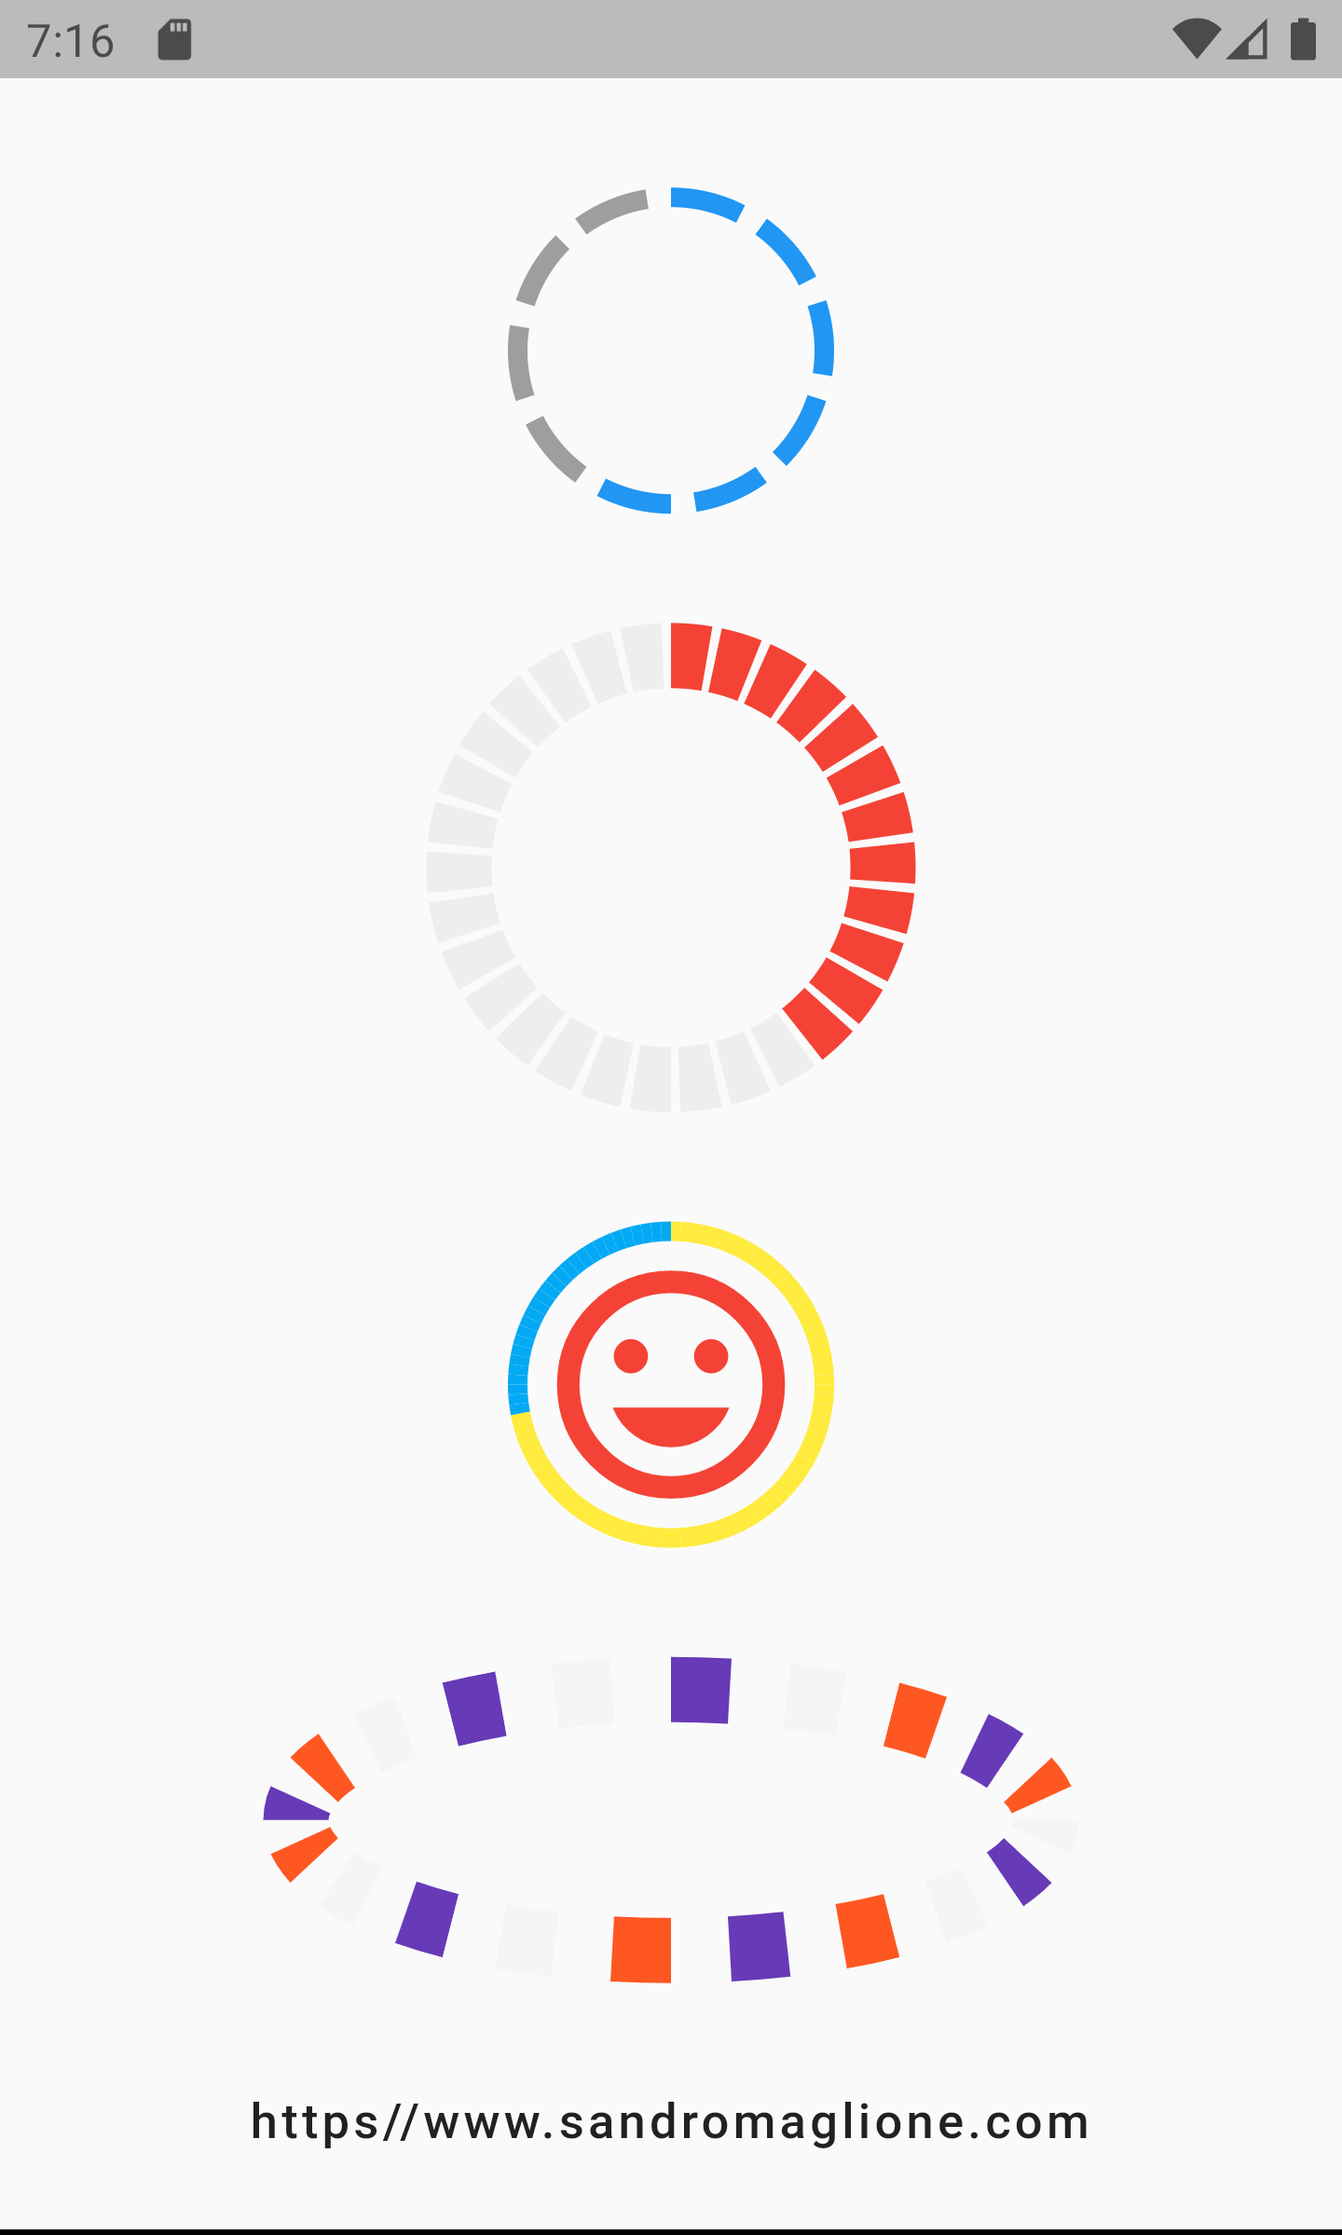
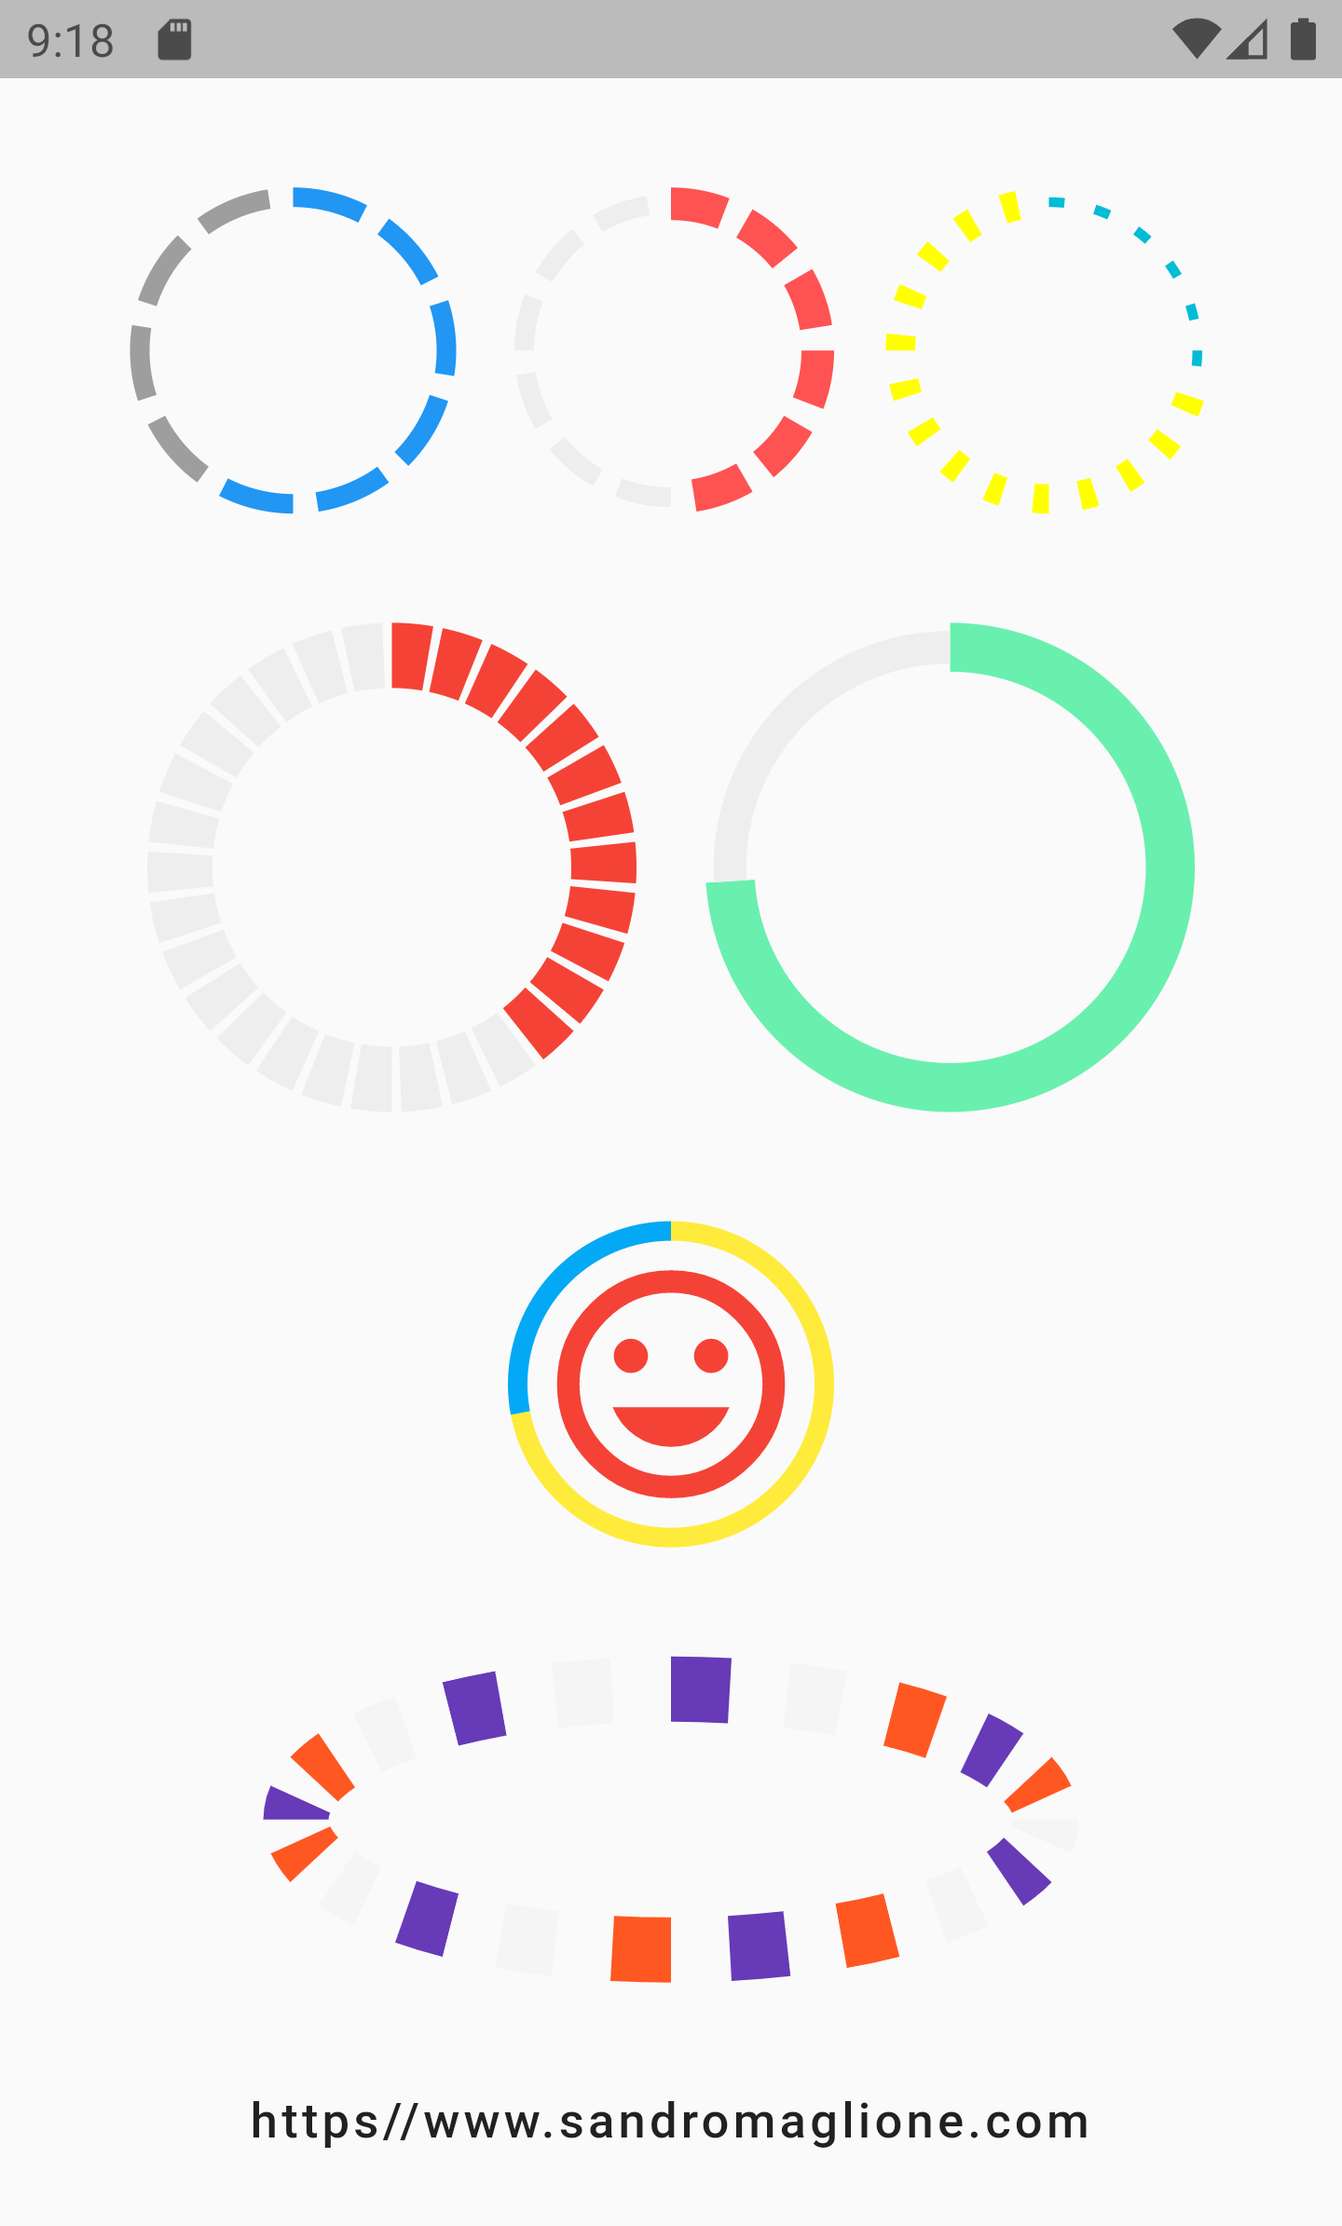
Added cicular step progress indicator docs

diff --git a/lib/src/circular_step_progress_indicator.dart b/lib/src/circular_step_progress_indicator.dart
@@ -1,5 +1,7 @@
 library circular_step_progress_indicator;
 
+import 'dart:math';
+
 import 'package:flutter/material.dart';
 import 'dart:math' as math;
 
@@ -70,6 +72,20 @@ class CircularStepProgressIndicator extends StatelessWidget {
   /// Default value: 6.0
   final double stepSize;
 
+  /// Specify a custom size for selected steps
+  ///
+  /// Only applicable when not custom setting (customColor, customStepSize) is defined
+  ///
+  /// This value will replace the [stepSize] only for selected steps
+  final double selectedStepSize;
+
+  /// Specify a custom size for unselected steps
+  ///
+  /// Only applicable when not custom setting (customColor, customStepSize) is defined
+  ///
+  /// This value will replace the [stepSize] only for unselected steps
+  final double unselectedStepSize;
+
   /// Assign a custom size [double] for each step
   ///
   /// Function takes a [int], index of the current step starting from 0, and
@@ -111,6 +127,8 @@ class CircularStepProgressIndicator extends StatelessWidget {
     this.width,
     this.customColor,
     this.customStepSize,
+    this.selectedStepSize,
+    this.unselectedStepSize,
     this.circularDirection = CircularDirection.clockwise,
     this.fallbackHeight = 100.0,
     this.fallbackWidth = 100.0,
@@ -158,6 +176,8 @@ class CircularStepProgressIndicator extends StatelessWidget {
             stepSize: stepSize,
             customStepSize: customStepSize,
             maxDefinedSize: maxDefinedSize,
+            selectedStepSize: selectedStepSize,
+            unselectedStepSize: unselectedStepSize,
           ),
           // Padding needed to show the indicator when child is placed on top of it
           child: Padding(
@@ -173,7 +193,7 @@ class CircularStepProgressIndicator extends StatelessWidget {
   /// [stepSize] and [customStepSize]
   double get maxDefinedSize {
     if (customStepSize == null) {
-      return stepSize;
+      return max(stepSize, max(selectedStepSize ?? 0, unselectedStepSize ?? 0));
     }
 
     // When customSize defined, compute and return max possible size
@@ -197,6 +217,8 @@ class _CircularIndicatorPainter implements CustomPainter {
   final Color selectedColor;
   final Color unselectedColor;
   final double stepSize;
+  final double selectedStepSize;
+  final double unselectedStepSize;
   final double Function(int) customStepSize;
   final double maxDefinedSize;
   final Color Function(int) customColor;
@@ -212,6 +234,8 @@ class _CircularIndicatorPainter implements CustomPainter {
     @required this.unselectedColor,
     @required this.padding,
     @required this.stepSize,
+    @required this.selectedStepSize,
+    @required this.unselectedStepSize,
     @required this.customStepSize,
     @required this.startingAngle,
     @required this.maxDefinedSize,
@@ -258,19 +282,19 @@ class _CircularIndicatorPainter implements CustomPainter {
     for (var stepAngle = startingAngle, step = 0;
         step < totalSteps;
         stepAngle += stepLength, ++step) {
+      final isSelectedColor = _isSelectedColor(step, isClockwise);
+
       // Size of the step
       final indexStepSize = customStepSize != null
           ? customStepSize(isClockwise ? step : totalSteps - step - 1)
-          : stepSize;
+          : isSelectedColor
+              ? selectedStepSize ?? stepSize
+              : unselectedStepSize ?? stepSize;
 
       // Use customColor if defined
       final stepColor = customColor != null
           ? customColor(step)
-          : isClockwise
-              ? (step + 1) <= currentStep ? selectedColor : unselectedColor
-              : (step + 1) <= (totalSteps - currentStep)
-                  ? unselectedColor
-                  : selectedColor;
+          : isSelectedColor ? selectedColor : unselectedColor;
 
       // Draw arc steps of the indicator
       canvas.drawArc(
@@ -292,6 +316,14 @@ class _CircularIndicatorPainter implements CustomPainter {
     final firstStepColor = isClockwise ? selectedColor : unselectedColor;
     final secondStepColor = !isClockwise ? selectedColor : unselectedColor;
 
+    // Selected and unselected step sizes if defined, otherwise use stepSize
+    final firstStepSize = isClockwise
+        ? selectedStepSize ?? stepSize
+        : unselectedStepSize ?? stepSize;
+    final secondStepSize = !isClockwise
+        ? selectedStepSize ?? stepSize
+        : unselectedStepSize ?? stepSize;
+
     // Compute length and starting angle of the selected and unselected bars
     final firstArcLength = (math.pi * 2) * (currentStep / totalSteps);
     final secondArcLength = (math.pi * 2) - firstArcLength;
@@ -305,7 +337,9 @@ class _CircularIndicatorPainter implements CustomPainter {
       startingAngle,
       firstArcLength,
       false /*isRadial*/,
-      paint..color = firstStepColor,
+      paint
+        ..color = firstStepColor
+        ..strokeWidth = firstStepSize,
     );
 
     // Second arc, selected when counterclockwise, unselected otherwise
@@ -314,9 +348,15 @@ class _CircularIndicatorPainter implements CustomPainter {
       secondArcStartingAngle,
       secondArcLength,
       false /*isRadial*/,
-      paint..color = secondStepColor,
+      paint
+        ..color = secondStepColor
+        ..strokeWidth = secondStepSize,
     );
   }
+
+  bool _isSelectedColor(int step, bool isClockwise) => isClockwise
+      ? (step + 1) <= currentStep
+      : (step + 1) > (totalSteps - currentStep);
 
   @override
   bool shouldRepaint(CustomPainter oldDelegate) => oldDelegate != this;

diff --git a/example/circular_bar1.dart b/example/circular_bar1.dart
@@ -21,20 +21,59 @@ class CircularBar1 extends StatelessWidget {
                   mainAxisAlignment: MainAxisAlignment.spaceEvenly,
                   crossAxisAlignment: CrossAxisAlignment.center,
                   children: <Widget>[
-                    CircularStepProgressIndicator(
-                      totalSteps: 10,
-                      currentStep: 6,
-                      width: 100,
+                    Row(
+                      mainAxisAlignment: MainAxisAlignment.spaceEvenly,
+                      children: <Widget>[
+                        CircularStepProgressIndicator(
+                          totalSteps: 10,
+                          currentStep: 6,
+                          width: 100,
+                        ),
+                        CircularStepProgressIndicator(
+                          totalSteps: 12,
+                          currentStep: 6,
+                          selectedColor: Colors.redAccent,
+                          unselectedColor: Colors.grey[200],
+                          selectedStepSize: 10.0,
+                          width: 100,
+                        ),
+                        CircularStepProgressIndicator(
+                          totalSteps: 20,
+                          currentStep: 6,
+                          padding: math.pi / 15,
+                          selectedColor: Colors.cyan,
+                          unselectedColor: Colors.yellowAccent,
+                          selectedStepSize: 3.0,
+                          unselectedStepSize: 9.0,
+                          width: 100,
+                        ),
+                      ],
                     ),
-                    CircularStepProgressIndicator(
-                      totalSteps: 30,
-                      currentStep: 12,
-                      stepSize: 20,
-                      selectedColor: Colors.red,
-                      unselectedColor: Colors.grey[200],
-                      padding: math.pi / 80,
-                      width: 150,
-                      height: 150,
+                    Row(
+                      mainAxisAlignment: MainAxisAlignment.spaceEvenly,
+                      children: <Widget>[
+                        CircularStepProgressIndicator(
+                          totalSteps: 30,
+                          currentStep: 12,
+                          stepSize: 20,
+                          selectedColor: Colors.red,
+                          unselectedColor: Colors.grey[200],
+                          padding: math.pi / 80,
+                          width: 150,
+                          height: 150,
+                        ),
+                        CircularStepProgressIndicator(
+                          totalSteps: 100,
+                          currentStep: 74,
+                          stepSize: 10,
+                          selectedColor: Colors.greenAccent,
+                          unselectedColor: Colors.grey[200],
+                          padding: 0,
+                          width: 150,
+                          height: 150,
+                          selectedStepSize: 15,
+                        ),
+                      ],
                     ),
                     CircularStepProgressIndicator(
                       totalSteps: 100,

diff --git a/README.md b/README.md
@@ -35,6 +35,11 @@ Horizontal             |  Vertical
 :-------------------------:|:-------------------------:
 ![Horizontal indicator screen](https://raw.githubusercontent.com/SandroMaglione/step-progress-indicator/master/doc/screenshots/screen1.png)  |  ![Vertical indicator screen](https://raw.githubusercontent.com/SandroMaglione/step-progress-indicator/master/doc/screenshots/screen2.png)
 
+
+Circular1             |  Circular2
+:-------------------------:|:-------------------------:
+![Circular step progress indicator screen 1](https://raw.githubusercontent.com/SandroMaglione/step-progress-indicator/master/doc/screenshots/screen3.png)  |  ![Circular step progress indicator screen 2](https://raw.githubusercontent.com/SandroMaglione/step-progress-indicator/master/doc/screenshots/screen4.png)
+
 ---
 
 ## Examples
@@ -158,7 +163,110 @@ StepProgressIndicator(
 
 ---
 
-## Parameters
+#### CircularStepProgressIndicator - Example 1
+![Circular Step Progress Indicator - Example 1](https://raw.githubusercontent.com/SandroMaglione/step-progress-indicator/master/doc/screenshots/circular_step_progress_indicator/circular_bar_example1.png)
+
+```dart
+Row(
+    mainAxisAlignment: MainAxisAlignment.spaceEvenly,
+    children: <Widget>[
+        CircularStepProgressIndicator(
+            totalSteps: 10,
+            currentStep: 6,
+            width: 100,
+        ),
+        CircularStepProgressIndicator(
+            totalSteps: 12,
+            currentStep: 6,
+            selectedColor: Colors.redAccent,
+            unselectedColor: Colors.grey[200],
+            selectedStepSize: 10.0,
+            width: 100,
+        ),
+        CircularStepProgressIndicator(
+            totalSteps: 20,
+            currentStep: 6,
+            padding: math.pi / 15,
+            selectedColor: Colors.cyan,
+            unselectedColor: Colors.yellowAccent,
+            selectedStepSize: 3.0,
+            unselectedStepSize: 9.0,
+            width: 100,
+        ),
+    ],
+)
+```
+
+#### CircularStepProgressIndicator - Example 2
+![Circular Step Progress Indicator - Example 2](https://raw.githubusercontent.com/SandroMaglione/step-progress-indicator/master/doc/screenshots/circular_step_progress_indicator/circular_bar_example2.png)
+
+```dart
+Row(
+    mainAxisAlignment: MainAxisAlignment.spaceEvenly,
+    children: <Widget>[
+        CircularStepProgressIndicator(
+            totalSteps: 30,
+            currentStep: 12,
+            stepSize: 20,
+            selectedColor: Colors.red,
+            unselectedColor: Colors.grey[200],
+            padding: math.pi / 80,
+            width: 150,
+            height: 150,
+        ),
+        CircularStepProgressIndicator(
+            totalSteps: 100,
+            currentStep: 74,
+            stepSize: 10,
+            selectedColor: Colors.greenAccent,
+            unselectedColor: Colors.grey[200],
+            padding: 0,
+            width: 150,
+            height: 150,
+            selectedStepSize: 15,
+        ),
+    ],
+)
+```
+
+#### CircularStepProgressIndicator - Example 3
+![Circular Step Progress Indicator - Example 3](https://raw.githubusercontent.com/SandroMaglione/step-progress-indicator/master/doc/screenshots/circular_step_progress_indicator/circular_bar_example3.png)
+
+```dart
+CircularStepProgressIndicator(
+    totalSteps: 100,
+    currentStep: 72,
+    selectedColor: Colors.yellow,
+    unselectedColor: Colors.lightBlue,
+    padding: 0,
+    width: 100,
+    child: Icon(
+        Icons.tag_faces,
+        color: Colors.red,
+        size: 84,
+    ),
+)
+```
+
+#### CircularStepProgressIndicator - Example 4
+![Circular Step Progress Indicator - Example 4](https://raw.githubusercontent.com/SandroMaglione/step-progress-indicator/master/doc/screenshots/circular_step_progress_indicator/circular_bar_example4.png)
+
+```dart
+CircularStepProgressIndicator(
+    totalSteps: 20,
+    stepSize: 20,
+    customColor: (index) => index % 3 == 0
+        ? Colors.deepPurple
+        : index % 2 == 0
+            ? Colors.deepOrange
+            : Colors.grey[100],
+    width: 250,
+)
+```
+
+---
+
+## StepProgressIndicator Parameters
 
 | Parameter       	| Type | Description | Default |
 |-------------------|------|-------------|---------|
@@ -172,13 +280,38 @@ StepProgressIndicator(
 | unselectedColor         	| `Color` | Color of the unselected steps. | `Colors.grey` |
 | direction         	| `Axis` | Defines if indicator is horizontal or vertical. | `Axis.horizontal` |
 | progressDirection         	| `TextDirection` | Defines if steps grow from left-to-right / top-to-bottom `TextDirection.ltr` or right-to-left / bottom-to-top `TextDirection.rtl`. | `TextDirection.ltr` |
-| Size   | `double` | Size of the indicator (height if `direction` is `Axis.horizontal`, width if `Axis.vertical`). | 4.0 |
+| size   | `double` | Size of the indicator (height if `direction` is `Axis.horizontal`, width if `Axis.vertical`). | 4.0 |
 | padding         	| `double` | Spacing, left-right if horizontal, top-bottom if vertical, of each step. | 2.0 |
 | fallbackLength         	| `double` | Length of the progress indicator in case the main axis (based on `direction` attribute) has no size limit i.e. `double.infinity`. | 100.0 |
 | selectedSize         	| `double` | Specify a custom size for selected steps. | - |
 | unselectedSize         	| `double` | Specify a custom size for unselected steps. | - |
 
-## Ideas
+
+## CircularStepProgressIndicator Parameters
+
+| Parameter       	| Type | Description | Default |
+|-------------------|------|-------------|---------|
+| **totalSteps**    | `int` | Total number of step of the complete indicator. | **`@required`** |
+| currentStep 	| `int` | Number of steps to underline, all the steps with index <= `currentStep` will have Color equal to `selectedColor`. | 0 |
+| child         	| `Widget` | Widget child contained inside the indicator. | - |
+| selectedColor         	| `Color` | Color of the selected steps. | `Colors.blue` |
+| unselectedColor         	| `Color` | Color of the unselected steps. | `Colors.grey` |
+| customColor`(int)`         	| `Color` | Assign a custom Color for each step. | - |
+| customStepSize`(int)`         	| `double` | Assign a custom size for each step. | - |
+| selectedStepSize         	| `double` | Specify a custom size for selected steps. | - |
+| unselectedStepSize         	| `double` | Specify a custom size for unselected steps. | - |
+| circularDirection         	| `TextDirection` | Defines if steps grow clockwise (`CircularDirection.clockwise`) or counterclockwise (`CircularDirection.counterclockwise`) | `CircularDirection.clockwise` |
+| stepSize   | `double` | Size of the each step of the indicator. | 6.0 |
+| height   | `double` | Height of the indicator's container. | - |
+| width   | `double` | Width of the indicator's container. | - |
+| padding         	| `double` | Spacing between each step. | `math.pi / 20` |
+| startingAngle      | `double` | Angle in which is placed the starting point of the indicator. | `-math.pi / 2` |
+| fallbackHeight         	| `double` | Height of the indicator's container in case the parent height has no size limit i.e. `double.infinity`. | 100.0 |
+| fallbackWidth         	| `double` | Width of the indicator's container in case the parent width has no size limit i.e. `double.infinity`. | 100.0 |
+
+---
+
+## Roadmap
 I am always open for suggestions and ideas for possible improvements or fixes.
 
 Here below a list of coming/future improvements:
